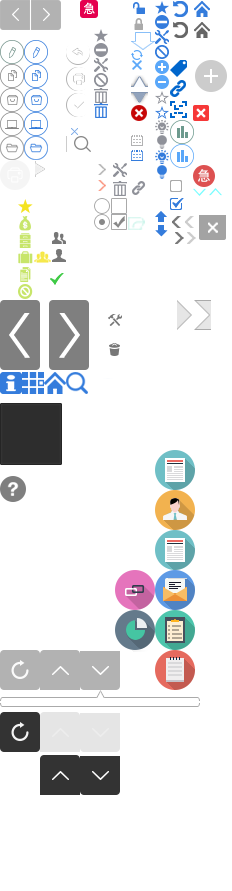
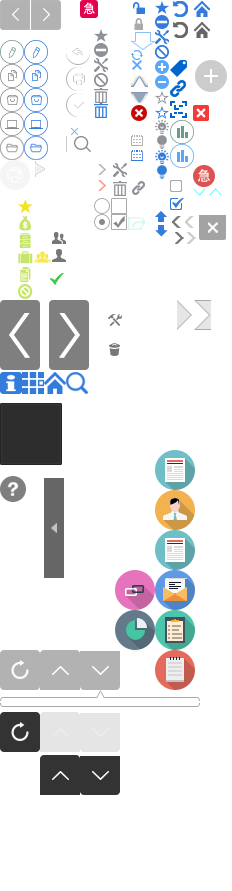
css

Changed region(s): [[0.181, 0.5152, 0.3017, 0.6667]]

diff --git a/css/global.css b/css/global.css
@@ -328,6 +328,7 @@ li.current .ico-07,.NewBar ul li:hover .ico-07{background-position:-170px -144px
 .ico-user,.ico-user2{width:14px;height:13px;background-position:-52px -232px;margin-right:5px;top:2px;}
 .ico-user2{background-position:-52px -249px;}
 .ico-ok{width:26px;height:26px;background-position:-44px -266px;margin-left:3px;}
+.right_arrow{width:20px;height:100px;background-position:-44px -476px;position: absolute;right:0;top:50%;margin-top:-50px;}
 /*表单图标背景和ico*/
 .bg{display: inline-block;width:48px;height:48px;text-align: center;line-height: 48px;position: relative;border-radius:50em;behavior: url(../css/PIE.htc);}
 .ico{width: 22px;height:22px;vertical-align: -6px;position:absolute;top: 50%;left:50%;margin:-11px 0 0 -11px;}
@@ -341,6 +342,7 @@ li.current .ico-07,.NewBar ul li:hover .ico-07{background-position:-170px -144px
 /*弹出*/
 .loading{position:absolute;width:50px;height:50px;top:50%;left:50%;margin:-25px 0 0 -25px;z-index:200;}
 .loading img{width:100%;-webkit-animation:spin 650ms infinite linear;animation:spin 650ms infinite linear;}
+.loading_mini{width:35px;height:35px;margin:-17px 0 0 -17px;}
 .mask{width: 100%;height: 100%;position: fixed;top:0;left:0;z-index:20;}
 .sending,.no_data{width:220px;height:170px;margin:-85px 0 0 -110px;background: url("../img/mask70.png") repeat;}
 .no_data{position:fixed;width:300px;height:100px;top:50%;left:50%;margin:-50px 0 0 -150px;color:#fff;line-height:100px;z-index:10;border-radius:3px;}
@@ -360,10 +362,12 @@ li.current .ico-07,.NewBar ul li:hover .ico-07{background-position:-170px -144px
 .pop_waring .pop_top,.pop_waring .btn{background:#ffa100;}
 .pop_top p.p-top10{opacity:0.5;filter:Alpha(Opacity=50);}
 .pop_tip{width:240px;height:120px;margin:-60px 0 0 -120px;border-color:#999;box-shadow: 0 0 3px #666;}
-.pop_tip .pop_top{height:90px;line-height:90px;}
-.pop_tip p.clearfix{position: absolute;left:0;bottom:-1px;width:100%;}
-.pop_tip .btn{background:#eee;border-radius:0;margin:0;padding:0;width:50%;float: left;color:#888;border-top:1px solid #d3d4d5;}
-.pop_tip .btn.current{border-color:#347cdc;}
+.pop_tip_r{height:120px;margin:-60px 0 0 -120px;}
+.pop_tip .pop_top{height:80px;line-height:80px;}
+.pop_tip_r p.clearfix{position: absolute;left:0;bottom:-1px;width:100%;}
+.pop_tip .btn{background-color:#f3a818;border-radius:4px;}
+.pop_tip_r .btn{background:#eee;border-radius:0;margin:0;padding:0;width:50%;float: left;color:#888;border-top:1px solid #d3d4d5;}
+.pop_tip_r .btn.current{border-color:#347cdc;}
 .pop_ie{width:700px;height:410px;margin:-205px 0 0 -350px;border:none;box-shadow:0 0 10px #aaa;background:#232324;}
 .explorer{background:#333334;margin:0;position:relative;border-radius:5px;}
 .explorer a{display: inline-block;margin:10px 25px;position:relative;height:110px;}
@@ -380,7 +384,8 @@ li.current .ico-07,.NewBar ul li:hover .ico-07{background-position:-170px -144px
 .off{position: absolute;top:9px;right:8px;font-weight: bold;font-size:26px;color:#aaa;cursor: pointer;}
 .pop_tip .off{width:27px;height:25px;background-position: -199px -215px;top:0;}
 .message_box_mid .message{background: url("../img/mesbg_2.png") no-repeat;}
-.message_box_mid .message_error{background: url("../img/mesbg_error2.png") no-repeat; }
+.message_box_mid .message_error{background: url("../img/mesbg_error2.png") no-repeat;}
+.message_box_mid .message_waring{background: url("../img/mesbg_waring.png") no-repeat;}
 /*input*/
 .int{height:26px;line-height:normal;border:1px solid #ccc;border-radius:1px;text-indent:5px;color: #aaa;width: 100%;outline: 0;}
 .border{border:1px solid #ccc;}

diff --git a/template/统计分析.html b/template/统计分析.html
@@ -277,6 +277,7 @@
         </div>
         <!--主要内容over-->
         <!--右侧检索条件begin-->
+        <span class="Icon right_arrow" title="展开"></span>
         <div class="search_r">
             <div class="Re_item clearfix">
                 <span class="inlineblock marl10 width-60 alignright">起止日期：</span>
@@ -347,7 +348,7 @@
             </div>
             <div class="Re_item">
                 <span class="inlineblock marl10 width-60 alignright">分组：</span>
-                <div class="search ie-css3 select width-180 inlineblock "><!--加 current，显示下拉列表框-->
+                <div class="search ie-css3 select current width-180 inlineblock "><!--加 current，显示下拉列表框-->
                     <span class="Choosed">申请部门</span>
                     <span class="ico-select"><i class="Icon ico-upd"></i></span>
                     <div class="ser_Results ie-css3">
@@ -355,6 +356,10 @@
                             <ul>
                                 <li>申请人</li>
                                 <li>申请部门</li>
+                                <li>付款方式</li>
+                                <li>付款方式</li>
+                                <li>付款方式</li>
+                                <li>付款方式</li>
                                 <li>付款方式</li>
                             </ul>
                         </div>
@@ -380,13 +385,10 @@
 <script type="text/javascript" src="../js/jquery.mousewheel.js"></script>
 <script type="text/javascript">
     $(function() {
-        function Jscroll(){
-            $('.jscroll').jScrollPane({
-                'mouseWheelSpeed':100,
-                "showArrows":false
-            });
-        }
-        Jscroll();
+        $('.jscroll').jScrollPane({
+            'mouseWheelSpeed':100,
+            "showArrows":false
+        });
     });
 </script>
 </body>

diff --git a/template/提交成功.html b/template/提交成功.html
@@ -130,7 +130,18 @@
             </div>
             <!--提交失败提示框over-->
             <!--删除提示框begin-->
-            <div class="pop pop_tip" style="display: ">
+            <div class="pop pop_tip" style="display:">
+                <a href="javascript:;" class="Icon off"></a>
+                <div class="pop_top aligncenter">
+                    <p class="font16 color-6">您是否确认删除？</p>
+                </div>
+                <p class="aligncenter p-bt20">
+                    <a href="#" class="btn">确 定</a>
+                </p>
+            </div>
+            <!--删除提示框over-->
+            <!--右侧 iframe 删除提示框begin-->
+            <div class="pop pop_tip pop_tip_r" style="display:none;">
                 <div class="pop_top aligncenter">
                     <p class="font18 color-6">您是否确认删除？</p>
                 </div>
@@ -139,7 +150,7 @@
                     <a href="#" class="btn current">确 定</a>
                 </p>
             </div>
-            <!--删除提示框over-->
+            <!--右侧 iframe 删除提示框over-->
         </div>
         <!--主要内容over-->
         <div class="mask"></div>

diff --git a/template/home.html b/template/home.html
@@ -70,7 +70,7 @@
         </div>
         <div class="message_box message_box_mid" style="display: ;">
             <div class="message"><p class="font14 color-white">通讯录刷新成功！</p></div><!--每次 fadeout 掉一个div-->
-            <div class="message"><p class="font14 color-white">通讯录刷新成功！</p></div>
+            <div class="message message_waring"><p class="font14 color-white">警告！</p></div>
             <div class="message message_error"><p class="font14 color-white">提交失败！</p></div>
         </div>
         <!--通知状态条over-->

diff --git a/css/style.css b/css/style.css
@@ -309,6 +309,7 @@ div.Btn:hover,div.Btn,div.Btn.current{background:none!important;padding-left:10p
 .Re_item .tab_nav li:hover{background:none;}
 .Re_item .tab_nav li a:hover{color: #fff;}
 .Re_item .tab_nav li.current a{background-color: #347cdc;color:#fff;}
+.Re_item .tab_nav li.current{background:none;}
 .Re_item .ser_Results li{margin-left:3px;}
 .account_tab{width:100%;color: #fff;}
 .account_tab th,.account_tab td{padding:0 0 10px 0;color:#fff;height:10px;}

diff --git a/template/list.html b/template/list.html
@@ -10,6 +10,7 @@
 <body>
 <!--右侧滑出的表单详情 附件begin-->
 <div class="AppDetail_in">
+<span class="loading loading_mini ie-css3"><img src="../img/loading.png"/></span>
     <!--操作按钮begin-->
     <div class="AppMakeBtn clearfix alignright">
         <a href="javascript:;" class="Btn floatleft current"><i class="Icon ico-cross"></i>通 过</a>
